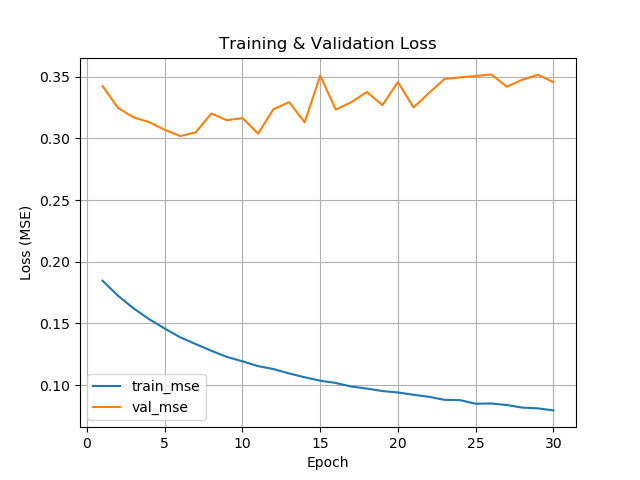
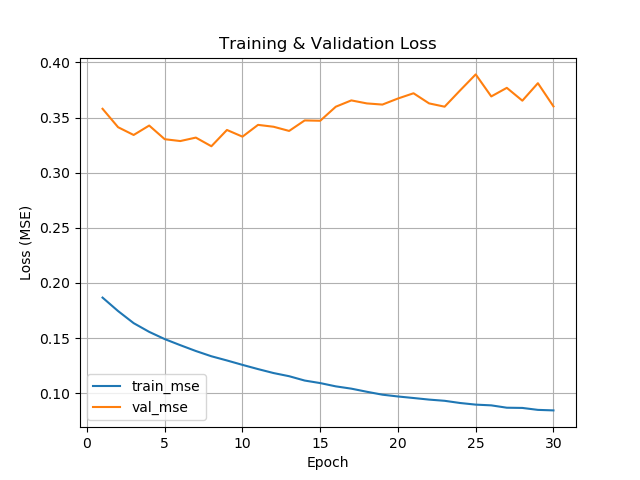
modify to include target point

diff --git a/src/sample_plot.py b/src/sample_plot.py
@@ -238,20 +238,20 @@ def main() -> None:
     # Only edit waypoints; dense trajectory points are auto-sampled below.
     # ============================================================
     robot_waypoints = np.array([
-        [0.0, -2.0],
-        [0.0, 2.0],
+        [0.0, -5.0],
+        [0.0, 5.0],
     ], dtype=np.float32)
-    robot_trajectory = sample_trajectory_from_waypoints(robot_waypoints, samples_per_segment=10)
+    robot_trajectory = sample_trajectory_from_waypoints(robot_waypoints, samples_per_segment=100)
 
     # ============================================================
     # Simple pedestrian positions (fixed for demonstration)
     # ============================================================
     pedestrian_positions = np.array([
-        [-0.5, 0.5]
+        [-2.0, 0.0]
     ], dtype=np.float32)
 
     pedestrian_velocities = np.array([
-        [0.0, -0.5]
+        [1.5, 0.0]
     ], dtype=np.float32)
 
     # ============================================================

diff --git a/src/train.py b/src/train.py
@@ -200,7 +200,7 @@ def main():
     ap.add_argument("--batch_size", type=int, default=64) #64
     ap.add_argument("--epochs", type=int, default=30) #50
     ap.add_argument("--lr", type=float, default=5e-4) #5e-5
-    ap.add_argument("--hidden_dim", type=int, default=64) #128
+    ap.add_argument("--hidden_dim", type=int, default=128) #128
     ap.add_argument("--num_layers", type=int, default=3) #3
     ap.add_argument(
         "--consistency_loss",